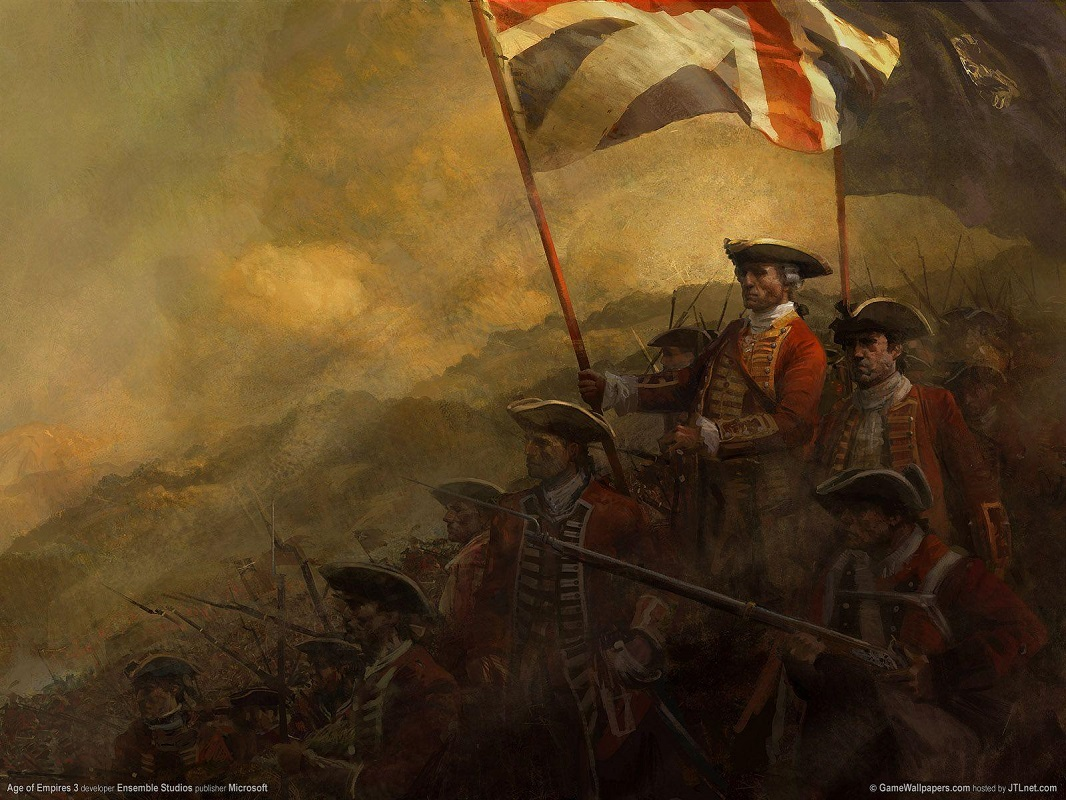
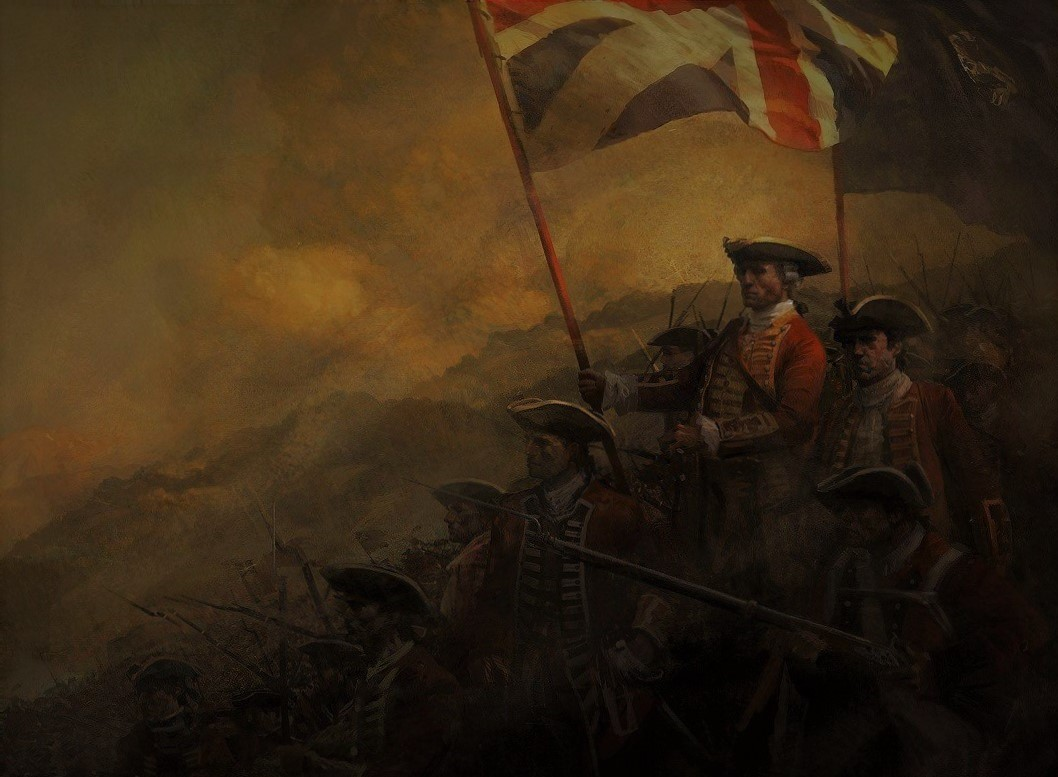
flags improvements

diff --git a/src/Components/Flags.tsx b/src/Components/Flags.tsx
@@ -1,19 +1,56 @@
-import { Box, SimpleGrid, Header } from "@chakra-ui/react";
+import { Box, SimpleGrid, Image, HStack } from "@chakra-ui/react";
+import { CivilizationsListProps } from "./CivilizationsList";
 
-const Flags = () => {
+interface FlagsProps {
+  backgroundImg: string;
+  dlcs: CivilizationsListProps["dlcs"];
+}
+
+const Flags: React.FC<FlagsProps> = ({ backgroundImg, dlcs }) => {
   return (
-    <>
-      <Header>Vanilla</Header>
-      <SimpleGrid minChildWidth="120px" spacing="40px">
-        <Box bg="tomato" height="80px"></Box>
-        <Box bg="tomato" height="80px"></Box>
-        <Box bg="tomato" height="80px"></Box>
-        <Box bg="tomato" height="80px"></Box>
+    <SimpleGrid
+      columns={5}
+      spacing="40px"
+      padding="2rem"
+      margin="5rem"
+      alignItems="center"
+    >
+      {dlcs.flatMap((dlc) =>
+        dlc.civilizations.map((civilization) => (
+          <Box
+            key={civilization.name}
+            background={`url(${backgroundImg})`}
+            bg={`url(src/assets/Images/Flags/${civilization.photo})`}
+            backgroundSize="cover"
+            backgroundPosition="center"
+            width="200px"
+            height="150px"
+            css={{
+              backgroundSize: "100% 100%",
+              opacity: 0.5,
+              backgroundRepeat: "no-repeat",
+            }}
+            borderRadius="md"
+          ></Box>
+        ))
+      )}
+    </SimpleGrid>
 
-        <Box bg="tomato" height="80px"></Box>
-        <Box bg="tomato" height="80px"></Box>
-      </SimpleGrid>
-    </>
+    // <SimpleGrid minChildWidth="120px" spacing="40px">
+    //   {dlcs.map((dlc) => (
+    //     <Box key={dlc.name} height="100px">
+    //       {dlc.civilizations.map((civilization) => (
+    //         <Image
+    //           key={civilization.name}
+    //           src={`src/assets/Images/Flags/${civilization.photo}`}
+    //           alt={civilization.name}
+    //           boxSize="100px"
+    //           objectFit="cover"
+    //         />
+    //       ))}
+    //     </Box>
+    //   ))}
+    // </SimpleGrid>
   );
 };
 

diff --git a/src/App.tsx b/src/App.tsx
@@ -1,5 +1,5 @@
 // Chakra Ui imports
-import { Grid, GridItem, Show, Text } from "@chakra-ui/react";
+import { Box, Grid, GridItem, Show, Text } from "@chakra-ui/react";
 import { BrowserRouter as Router, Routes, Route } from "react-router-dom";
 
 // Components Imports
@@ -116,11 +116,12 @@ const Layout: React.FC = () => {
       <GridItem
         area={"main"}
         bgImage={`url(${backgroundImg})`}
-        bgSize="cover"
+        bgSize="100% 100%"
         bgPosition="center"
-        filter="blur(1px)  brightness(63%) "
+
+        // filter="blur(1px) brightness(63%)"
       >
-        <Flags />
+        <Flags dlcs={dlcs} backgroundImg={backgroundImg} />
       </GridItem>
       <GridItem area={"footer"}>
         <Footer />

diff --git a/src/Components/CivilizationsList.tsx b/src/Components/CivilizationsList.tsx
@@ -8,6 +8,7 @@ import {
 } from "@chakra-ui/react";
 import { Link } from "react-router-dom";
 
+// Interfaces
 interface Civilization {
   name: string;
   photo: string;
@@ -17,7 +18,7 @@ interface DLC {
   name: string;
   civilizations: Civilization[];
 }
-interface CivilizationsListProps {
+export interface CivilizationsListProps {
   dlcs: DLC[];
 }
 

diff --git a/src/index.css b/src/index.css
@@ -73,3 +73,12 @@
     );
   }
 }
+
+/* bgImage={`url(${backgroundImg})`} */
+
+.bg-image {
+  background-image: url(${backgroundImg});
+  background-size: cover;
+  background-position: center;
+  filter: blur(1px) brightness(63%);
+}
